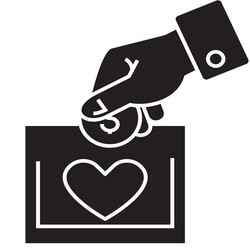
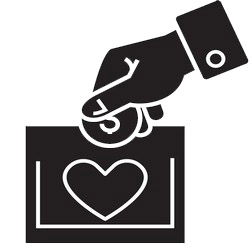
fixed pictures

diff --git a/public/homePage2.html b/public/homePage2.html
@@ -153,7 +153,7 @@
     <div class="boxes">
         <div class="clipart-images">
             <div class="column">
-                <img class="clipart-image" src="../images/donation_1.jpg">
+                <img class="clipart-image" src="../images/donation_1.png">
                 <h2 class="sub-header">Donate <i class="material-icons left">attach_money</i></h2>
                 <p class="info"> 
                     Bit by Bit Our School Continues to Improve and That is Thanks to the Generous Donations Provided
